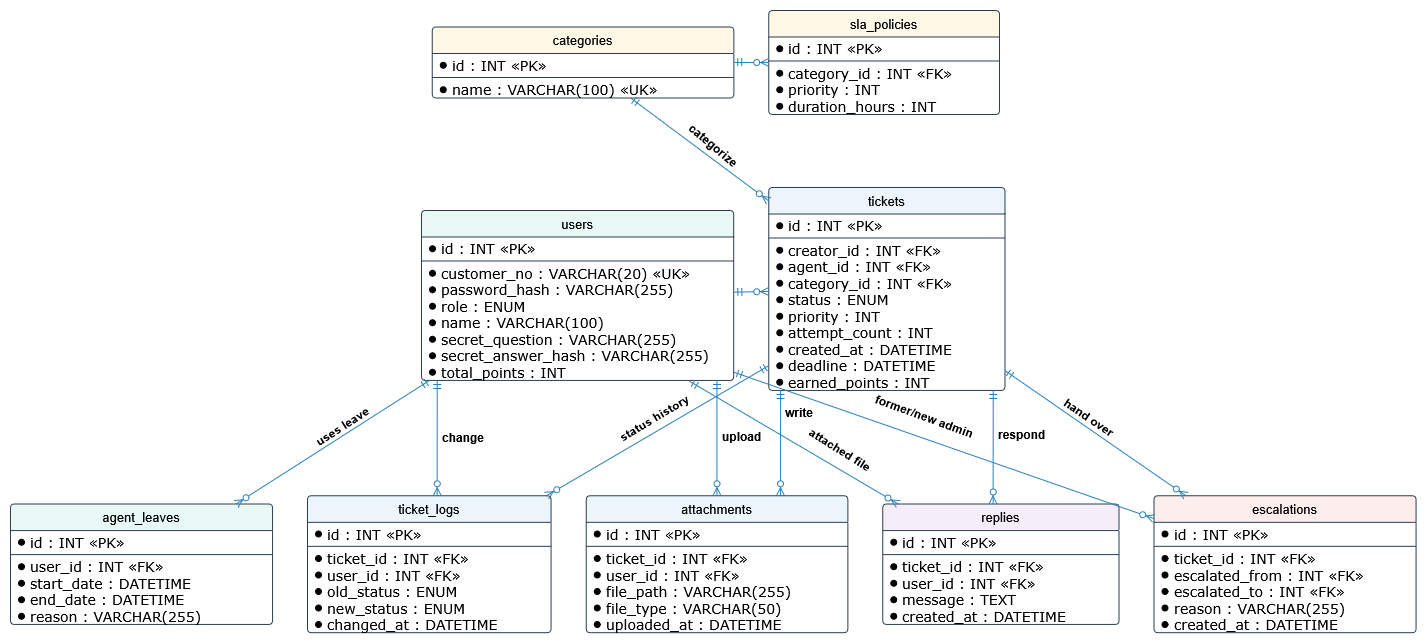
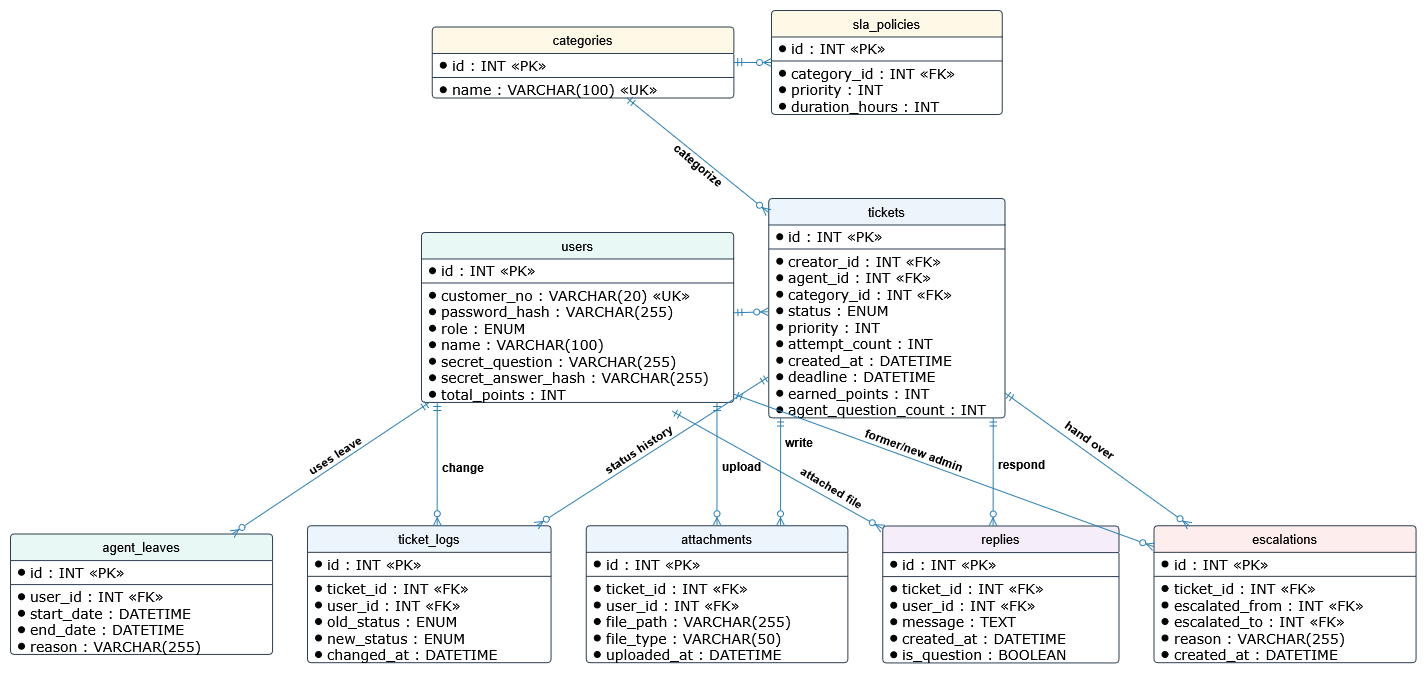
personel için kullanıcıya soru sorma özelliği eklendi

diff --git a/docs/srs.md b/docs/srs.md
@@ -58,15 +58,16 @@ Aşağıdaki özellikler **kapsam dışı** bırakılmıştır:
 *   **US-11:** Personel olarak, atanan biletler üzerindeki SLA geri sayımını dakika/saat cinsinden görebilmeliyim ki gecikmeleri önleyebileyim.
 *   **US-12:** Personel olarak, SLA süresi yaklaşan biletlerde renkli uyarılar alabilmeliyim ki önceliğimi buna göre belirleyebileyim.
 *   **US-13:** Personel olarak, çözdüğüm taleplerden puan kazanabileyim ki hem motive olabileyim hem de gösterdiğim çaba görsel olarak görünebilsin.
+*   **US-14:** Personel olarak, kullanıcıya soru sorabilmeliyim ki problemi daha iyi anlayabileyim.
 
 **Yönetici Hikayeleri:**
-*   **US-14:** Yönetici olarak, sisteme yeni personel ve kategoriler ekleyebilmeliyim.
-*   **US-15:** Yönetici olarak, personel SLA ihlal oranlarını ve ortalama çözüm sürelerini detaylı bir rapor olarak görebilmeliyim.
-*   **US-16:** Yönetici olarak, destek kategorilerini ve bu kategorilerin varsayılan SLA kurallarını belirleyebilmeliyim.
-*   **US-17:** Yönetici olarak, resmi tatilleri tarih bazlı olarak sisteme girebilmeliyim ki SLA hesaplamaları doğru yapılsın.
-*   **US-18:** Yönetici olarak, geciken biletlerin hangi üst personele otomatik devredileceğini seçebilmeliyim.
-*   **US-19:** Yönetici olarak, işletmemin çalışma günlerini ve mesai saatlerini sisteme tanımlayabilmeliyim ki SLA hesaplamaları tamamen işletmeme özel yapılabilsin.
-*   **US-20:** Yönetici olarak, sistem üzerinden yeni bir destek talebi açabilmeliyim ki işletme içi sorunları da havuza iletebileyim.
+*   **US-15:** Yönetici olarak, sisteme yeni personel ve kategoriler ekleyebilmeliyim ki sistemdeki çeşitliliği artırabileyim.
+*   **US-16:** Yönetici olarak, personel SLA ihlal oranlarını ve ortalama çözüm sürelerini detaylı bir rapor olarak görebilmeliyim.
+*   **US-17:** Yönetici olarak, destek kategorilerini ve bu kategorilerin varsayılan SLA kurallarını belirleyebilmeliyim ki sistemi daha iyi yönetebileyim.
+*   **US-18:** Yönetici olarak, resmi tatilleri tarih bazlı olarak sisteme girebilmeliyim ki SLA hesaplamaları doğru yapılabilsin.
+*   **US-19:** Yönetici olarak, geciken biletlerin hangi üst personele otomatik devredileceğini seçebilmeliyim ki sistemi daha iyi yönetebileyim.
+*   **US-20:** Yönetici olarak, işletmemin çalışma günlerini ve mesai saatlerini sisteme tanımlayabilmeliyim ki SLA hesaplamaları tamamen işletmeme özel yapılabilsin.
+*   **US-21:** Yönetici olarak, sistem üzerinden yeni bir destek talebi açabilmeliyim ki işletme içi sorunları da havuza iletebileyim.
 
 ## 9. İşlevsel Gereksinimler (Functional Requirements - FR)
 
@@ -91,6 +92,7 @@ Aşağıdaki özellikler **kapsam dışı** bırakılmıştır:
 *   **FR-19:** Sistem, her biletin detay sayfasında; biletin açılmasından kapanmasına kadar geçen tüm durum değişikliklerini kronolojik bir log olarak listelemelidir.
 *   **FR-20:** Sistem, Ortak Havuzdan personele bilet ataması yaparken, veritabanında o gün veya ertesi gün için aktif bir izni bulunan personelleri atama/dağıtım havuzundan otomatik olarak hariç tutmalıdır.
 *   **FR-21:** Sistem, "Talep Çözüldü" statüsündeki bir bilet müşteri tarafından reddedildiğinde, bileti tekrar "Talep İnceleniyor" statüsüne çekmeli ve biletin ait olduğu personelin "çözüm deneme hakkı" sayacını bir artırmalıdır.
+*   **US-22:** Sistem, personelin müşteri talebine yanıt verirken bunu bir "Soru" olarak işaretlemesine izin vermelidir. Bir bilet için bu hak maksimum 2 ile sınırlandırılmalı ve sorulan sorular, biletin hesaplanmış SLA bitiş tarihini kesinlikle değiştirmemeli veya duraklatmamalıdır.
 
 
 ## 10. İşlevsel Olmayan Gereksinimler (Non-Functional Requirements - NFR)

diff --git a/docs/tasarim.md b/docs/tasarim.md
@@ -57,7 +57,7 @@ Projede mimari zorunluluk olan Repository desenine ek olarak, dinamik bilet akı
 * **Neden Seçildi:** Kurallar karmaşıklaştığı için , her durumun geçiş mantığını kendi sınıfına hapsetmek koddaki hata ihtimalini minimize eder ve mimariyi temiz tutar.
 
 ## 5.2 Observer Deseni
-* **Problem:** Sistemde bir olayın başka olayları tetiklemesi gereken çoklu durumlar vardır: Yöneticinin bir personele izin girmesi o an SLA'sı dolmak üzere olan biletleri anında eskalasyona sokmalı, 3 iş günü dolduğunda bilet otomatik kapanmalı veya müşteri itiraz ettiğinde SLA süresi örn: +12 saat uzamalıdır.
+* **Problem:** Sistemde bir olayın başka olayları tetiklemesi gereken çoklu durumlar vardır: Yöneticinin bir personele izin girmesi o an SLA'sı dolmak üzere olan biletleri anında eskalasyona sokmalı, 3 iş günü dolduğunda bilet otomatik kapanmalı veya müşteri itiraz ettiğinde SLA süresi örn: +12 saat uzamalıdır ayrıca müşteri yanıt verdiğinde SLA uzar, ancak personel soru sorduğunda SLA algoritması tetiklenmemelidir.
 * **Desen:** Observer deseni; bir olay gerçekleştiğinde sistemi haberdar eden yayıncılar ve bu olayları dinleyip tepki veren EscalationObserver, SlaExtensionObserver gibi gözlemci sınıflarla uygulanır.
 * **Alternatif:** Desensiz çözüm, personelin izin ekleme fonksiyonunun içine gidip SLA hesaplama ve eskalasyon devretme fonksiyonlarını (hard-coded) doğrudan çağırmaktı.
 * **Neden Seçildi:** Gözlemci deseni sayesinde izin yönetim modülü ile bilet yönetim modülü birbirinden tamamen bağımsız çalışır. Bu sayede modüller arası tight coupling engellenir.
